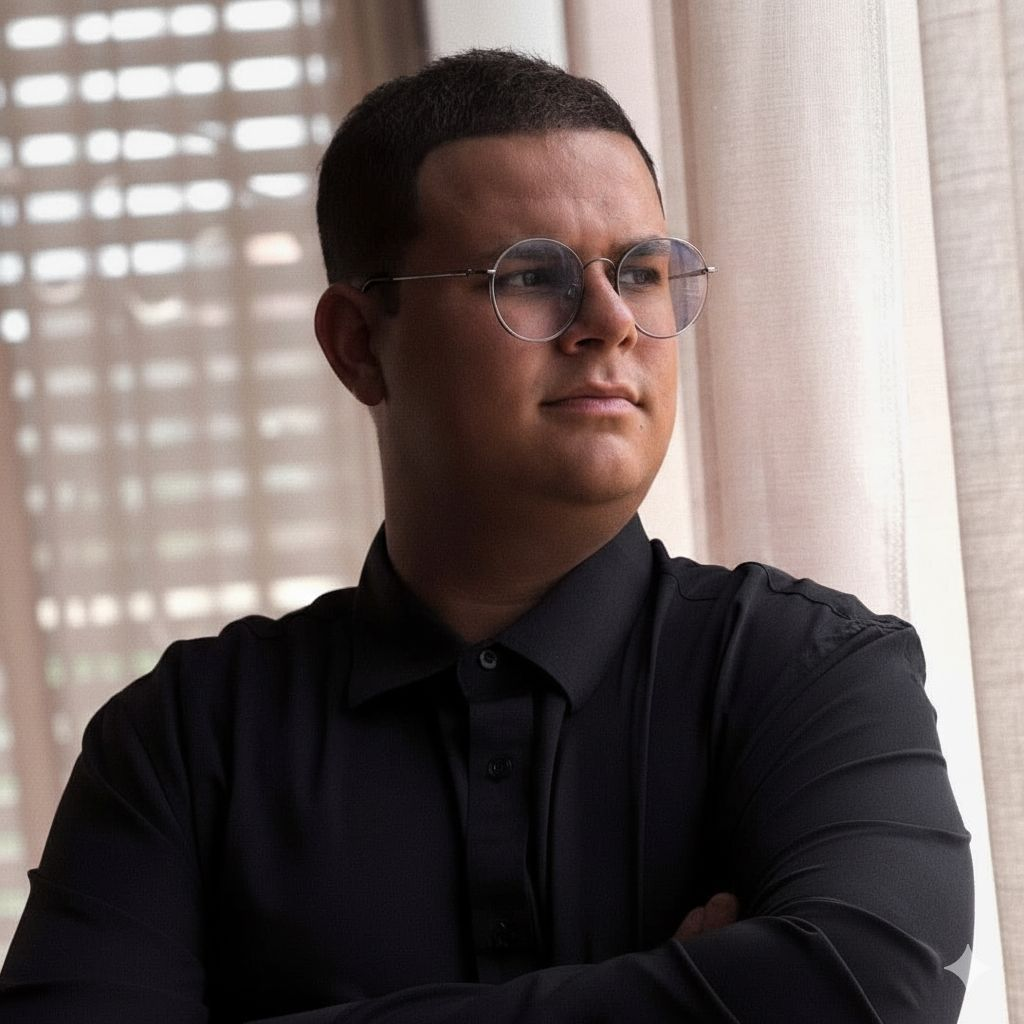
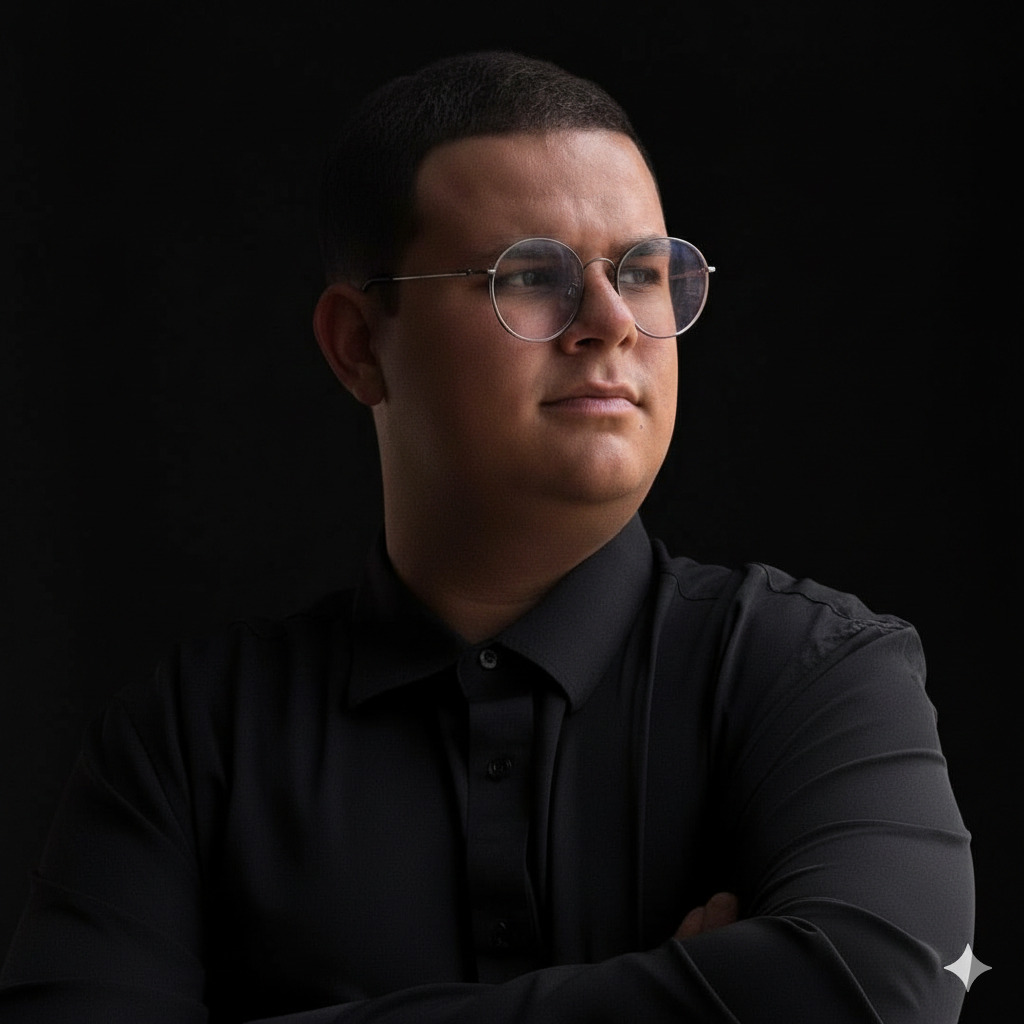
fotos

diff --git a/landing-next/app/globals.css b/landing-next/app/globals.css
@@ -3029,32 +3029,9 @@ h2.section-title--hero-font {
   --team-tilt-x: 0;
   --team-tilt-y: 0;
   position: relative;
-  display: grid;
-  grid-template-rows: auto 1fr;
-  gap: var(--space-sm);
-  padding: clamp(var(--fib-3), 2.6vw, var(--fib-4));
+  display: block;
   border-radius: var(--radius-xl);
-  border: 1px solid
-    rgba(
-      247,
-      247,
-      242,
-      calc(0.12 + var(--team-glow) * 0.18 + var(--team-hover) * 0.08)
-    );
-  background: linear-gradient(
-      140deg,
-      rgba(
-        255,
-        255,
-        255,
-        calc(0.05 + var(--team-glow) * 0.08 + var(--team-hover) * 0.05)
-      ),
-      rgba(255, 255, 255, 0) 52%
-    ),
-    rgba(12, 12, 12, 0.92);
-  box-shadow: 0 22px 48px rgba(0, 0, 0, 0.46),
-    0 0 calc(30px * var(--team-glow))
-      rgba(198, 222, 255, calc(0.06 + var(--team-glow) * 0.2));
+  box-shadow: none;
   overflow: hidden;
   isolation: isolate;
   transform: translateY(
@@ -3066,68 +3043,18 @@ h2.section-title--hero-font {
     scale(calc(1 + var(--team-hover) * 0.045 - var(--team-dim) * 0.02));
   transform-style: preserve-3d;
   backface-visibility: hidden;
-  filter: saturate(
-      calc(0.84 + var(--team-hover) * 0.24 - var(--team-dim) * 0.22)
-    )
-    brightness(
-      calc(0.94 + var(--team-hover) * 0.1 - var(--team-dim) * 0.12)
-    )
-    blur(calc(var(--team-dim) * 0.35px));
-  transition: transform 0.45s cubic-bezier(0.22, 1, 0.36, 1),
-    box-shadow 0.35s ease, border-color 0.35s ease, filter 0.35s ease;
-  will-change: transform, box-shadow, border-color, filter;
+  filter: none;
+  transition: transform 0.45s cubic-bezier(0.22, 1, 0.36, 1), filter 0.35s ease;
+  will-change: transform, filter;
   z-index: calc(1 + var(--team-hover) * 2);
 }
 
 .team-card::before {
-  content: "";
-  position: absolute;
-  inset: 1px;
-  border-radius: inherit;
-  pointer-events: none;
-  z-index: 0;
-  opacity: calc(0.06 + var(--team-glow) * 0.2 + var(--team-hover) * 0.28);
-  background:
-    radial-gradient(
-      140% 120% at calc(var(--team-mx) * 1%) calc(var(--team-my) * 1%),
-      rgba(215, 231, 255, calc(0.08 + var(--team-hover) * 0.24)),
-      rgba(215, 231, 255, 0) 56%
-    ),
-    linear-gradient(
-      120deg,
-      rgba(255, 255, 255, 0) 30%,
-      rgba(255, 255, 255, 0.16) 50%,
-      rgba(255, 255, 255, 0) 70%
-    );
-  background-size: 220% 100%;
-  background-position: calc(120% - var(--team-sheen) * 220%) 0;
-  mix-blend-mode: screen;
-  transition: background-position 0.8s ease, opacity 0.35s ease,
-    filter 0.35s ease;
-  filter: blur(calc(1px - var(--team-hover) * 0.4px));
+  content: none;
 }
 
 .team-card::after {
-  content: "";
-  position: absolute;
-  inset: 0;
-  border-radius: inherit;
-  pointer-events: none;
-  z-index: 1;
-  opacity: calc(0.04 + var(--team-hover) * 0.28);
-  background: linear-gradient(
-    112deg,
-    transparent 34%,
-    rgba(255, 255, 255, 0.38) 50%,
-    rgba(255, 255, 255, 0.08) 58%,
-    transparent 72%
-  );
-  background-size: 220% 100%;
-  background-position: 120% 0;
-  mix-blend-mode: screen;
-  animation: railCardSheen 1.6s cubic-bezier(0.22, 1, 0.36, 1) infinite;
-  animation-play-state: paused;
-  box-shadow: inset 0 0 0 1px rgba(255, 255, 255, 0.06);
+  content: none;
 }
 
 .team-card:nth-child(2) {
@@ -3139,20 +3066,12 @@ h2.section-title--hero-font {
 }
 .team-photo {
   position: relative;
-  z-index: 1;
+  z-index: 0;
   --team-photo-pop: 0;
   aspect-ratio: 1 / 1.6180339887;
   width: 100%;
-  border-radius: var(--radius-md);
-  border: 1px solid rgba(247, 247, 242, 0.18);
-  background-color: rgba(10, 10, 10, 0.7);
-  background-image: radial-gradient(
-      120% 120% at 20% 20%,
-      rgba(255, 255, 255, 0.14),
-      rgba(255, 255, 255, 0) 60%
-    );
-  box-shadow: inset 0 0 0 1px rgba(255, 255, 255, 0.06),
-    0 0 24px rgba(198, 222, 255, 0.16);
+  border-radius: inherit;
+  background-color: transparent;
   overflow: hidden;
   display: grid;
   place-items: center;
@@ -3170,21 +3089,34 @@ h2.section-title--hero-font {
   width: 100%;
   height: 100%;
   object-fit: cover;
+  -webkit-mask-image: linear-gradient(
+    180deg,
+    rgba(0, 0, 0, 1) 0%,
+    rgba(0, 0, 0, 1) 60%,
+    rgba(0, 0, 0, 0.74) 74%,
+    rgba(0, 0, 0, 0.38) 84%,
+    rgba(0, 0, 0, 0.1) 92%,
+    rgba(0, 0, 0, 0) 100%
+  );
+  -webkit-mask-repeat: no-repeat;
+  -webkit-mask-size: 100% 100%;
+  mask-image: linear-gradient(
+    180deg,
+    rgba(0, 0, 0, 1) 0%,
+    rgba(0, 0, 0, 1) 60%,
+    rgba(0, 0, 0, 0.74) 74%,
+    rgba(0, 0, 0, 0.38) 84%,
+    rgba(0, 0, 0, 0.1) 92%,
+    rgba(0, 0, 0, 0) 100%
+  );
+  mask-repeat: no-repeat;
+  mask-size: 100% 100%;
   filter: grayscale(1) contrast(1.05);
   transition: filter 0.4s ease, transform 0.6s cubic-bezier(0.22, 1, 0.36, 1);
 }
 
 .team-photo::after {
-  content: "";
-  position: absolute;
-  inset: 0;
-  background: linear-gradient(
-    180deg,
-    rgba(0, 0, 0, 0.05),
-    rgba(0, 0, 0, 0.55)
-  );
-  opacity: 0.4;
-  transition: opacity 0.35s ease;
+  content: none;
 }
 
 .team-photo span {
@@ -3202,65 +3134,58 @@ h2.section-title--hero-font {
 }
 
 .team-meta {
-  position: relative;
-  z-index: 1;
+  position: absolute;
+  inset: auto 0 0 0;
+  z-index: 2;
   display: grid;
   gap: var(--space-xs);
-  transform: translateZ(calc(8px + var(--team-hover) * 6px));
+  padding: var(--space-sm);
+  transform: translateY(calc(var(--team-hover) * -5px));
   transition: transform 0.45s cubic-bezier(0.22, 1, 0.36, 1);
 }
 
 .team-role {
   margin: 0;
   text-transform: uppercase;
-  letter-spacing: 0.24em;
+  letter-spacing: 0.18em;
   font-size: var(--type-xs);
-  color: rgba(247, 247, 242, 0.55);
+  color: rgba(247, 247, 242, 0.72);
 }
 
 .team-card h3 {
   margin: 0;
   font-size: var(--type-md);
   letter-spacing: 0.01em;
+  color: rgba(247, 247, 242, 0.98);
   transition: letter-spacing 0.3s ease, text-shadow 0.3s ease,
     color 0.3s ease;
 }
 
 .team-bio {
   margin: 0;
-  color: var(--muted);
+  color: rgba(247, 247, 242, 0.82);
+  font-size: clamp(0.78rem, 0.8vw, 0.94rem);
+  line-height: 1.42;
   transition: color 0.3s ease;
 }
 
 @media (pointer: fine) {
   .team-grid:hover .team-card {
-    --team-dim: 1;
-    --team-glow: 0.2;
+    --team-dim: 0;
+    --team-glow: 0;
     --team-sheen: 0;
   }
 
   .team-grid:hover .team-card:hover {
     --team-hover: 1;
     --team-dim: 0;
-    --team-glow: 1;
+    --team-glow: 0;
     --team-sheen: 1;
-    box-shadow: 0 28px 56px rgba(0, 0, 0, 0.48),
-      0 0 54px rgba(198, 222, 255, 0.24);
-  }
-
-  .team-grid:hover .team-card:hover::after {
-    animation-play-state: running;
+    box-shadow: none;
   }
 
   .team-grid:hover .team-card:hover .team-photo {
     --team-photo-pop: 1;
-    border-color: rgba(247, 247, 242, 0.32);
-    box-shadow: inset 0 0 0 1px rgba(255, 255, 255, 0.08),
-      0 0 32px rgba(198, 222, 255, 0.28);
-  }
-
-  .team-grid:hover .team-card:hover .team-photo::after {
-    opacity: 0.18;
   }
 
   .team-grid:hover .team-card:hover .team-photo img {

diff --git a/landing-next/app/page.tsx b/landing-next/app/page.tsx
@@ -1822,11 +1822,11 @@ export default function Home() {
                     <img src={member.photo} alt={member.name} loading="lazy" />
                   ) : null}
                   <span aria-hidden="true">{member.initials}</span>
-                </div>
-                <div className="team-meta">
-                  <p className="team-role">{member.role}</p>
-                  <h3>{member.name}</h3>
-                  <p className="team-bio">{member.bio}</p>
+                  <div className="team-meta">
+                    <p className="team-role">{member.role}</p>
+                    <h3>{member.name}</h3>
+                    <p className="team-bio">{member.bio}</p>
+                  </div>
                 </div>
               </article>
             ))}
